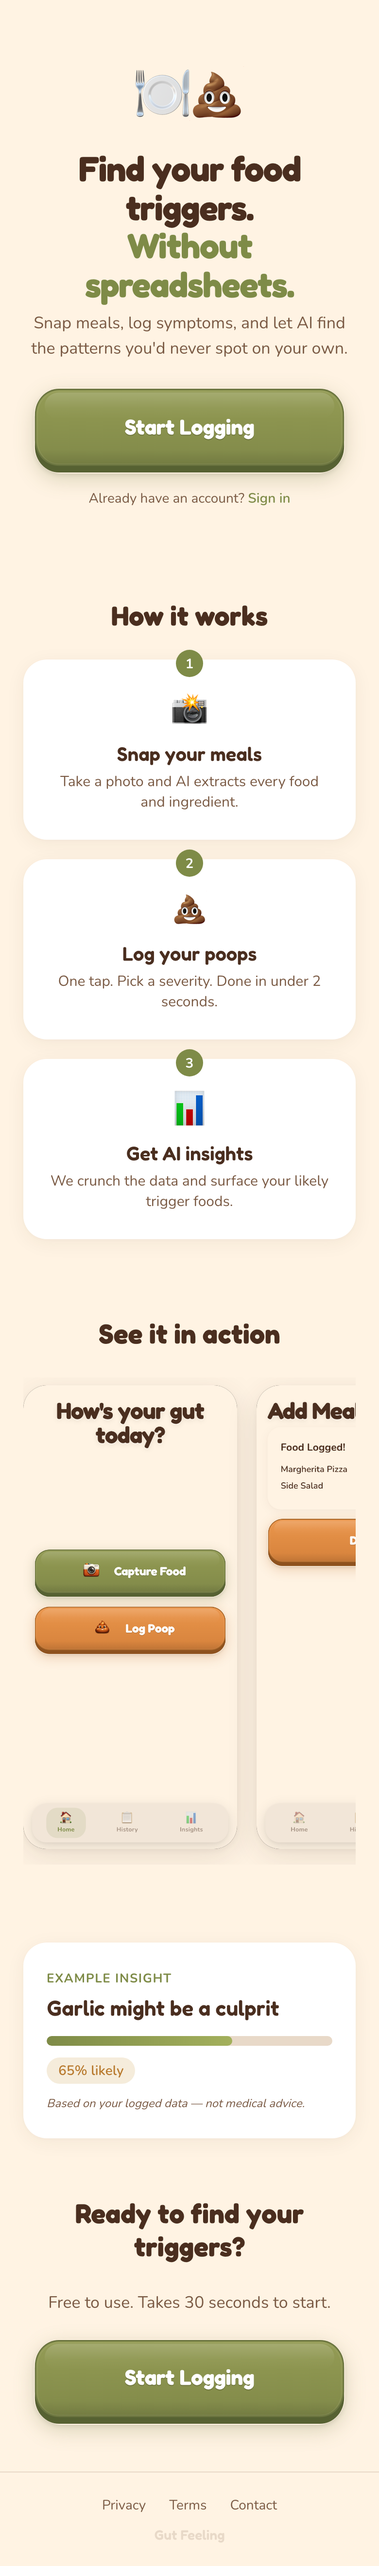
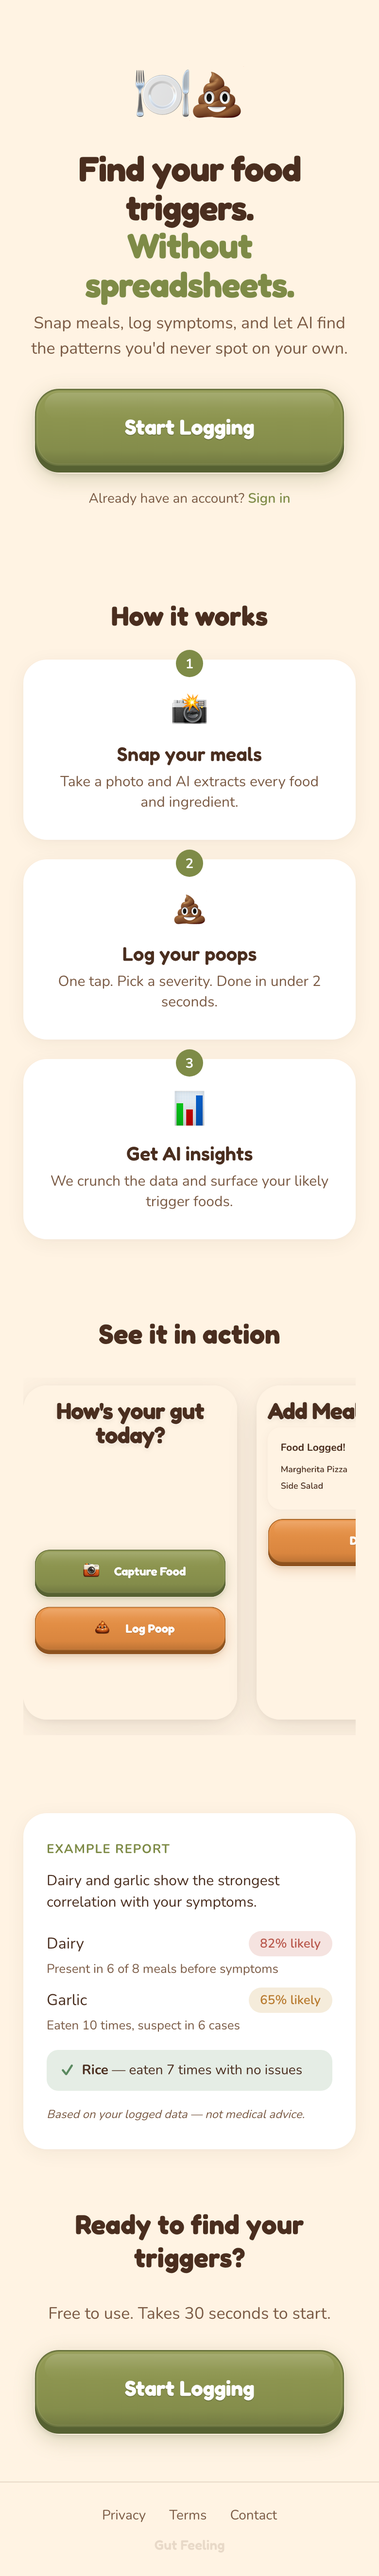
Update landing page with 5-section insight card and fix screenshot carousel

diff --git a/src/index.css b/src/index.css
@@ -494,19 +494,22 @@ body {
 .landing-screenshot-frame {
   flex-shrink: 0;
   width: 220px;
+  aspect-ratio: 9 / 14;
   scroll-snap-align: center;
   border-radius: 24px;
   overflow: hidden;
   box-shadow:
     0 8px 32px rgba(74, 46, 31, 0.12),
     0 2px 8px rgba(0, 0, 0, 0.05);
-  background: #1a1a1a;
+  background: #FFF3E3;
 }
 
 .landing-screenshot-frame img {
   width: 100%;
-  height: auto;
+  height: 100%;
   display: block;
+  object-fit: cover;
+  object-position: top;
 }
 
 /* ── Example insight card ── */
@@ -527,51 +530,75 @@ body {
   text-transform: uppercase;
   letter-spacing: 0.06em;
   color: #7E8B47;
-  margin: 0 0 8px;
+  margin: 0 0 12px;
 }
 
-.landing-insight-title {
-  font-family: 'Fredoka', 'Nunito', sans-serif;
-  font-size: 22px;
-  font-weight: 600;
+.landing-insight-summary {
+  font-size: 15px;
   color: #4A2E1F;
-  margin: 0 0 16px;
+  line-height: 1.5;
+  margin: 0 0 18px;
 }
 
-.landing-insight-bar {
-  height: 10px;
-  border-radius: 5px;
-  background: #E8D9C8;
-  overflow: hidden;
-  margin-bottom: 12px;
-}
-
-.landing-insight-fill {
-  height: 100%;
-  border-radius: 5px;
-  background: linear-gradient(90deg, #7E8B47 0%, #A3B05C 100%);
-}
-
-.landing-insight-meta {
+.landing-insight-row {
   display: flex;
   align-items: center;
-  gap: 12px;
-  flex-wrap: wrap;
+  justify-content: space-between;
+  margin-top: 10px;
+}
+
+.landing-insight-label {
+  font-weight: 500;
+  color: #4A2E1F;
+}
+
+.landing-insight-reason {
+  font-size: 13px;
+  color: #7A5A44;
+  margin: 4px 0 0;
 }
 
 .landing-insight-badge {
-  background: #F5ECDB;
-  color: #B87A2E;
   padding: 4px 12px;
   border-radius: 20px;
-  font-size: 14px;
+  font-size: 13px;
   font-weight: 600;
+  white-space: nowrap;
+}
+
+.landing-insight-badge--red {
+  background: #F5E3E0;
+  color: #B8564A;
+}
+
+.landing-insight-badge--yellow {
+  background: #F5ECDB;
+  color: #B87A2E;
+}
+
+.landing-insight-safe {
+  display: flex;
+  align-items: center;
+  gap: 8px;
+  margin-top: 16px;
+  padding: 10px 14px;
+  background: #E5EDE5;
+  border-radius: 12px;
+  font-size: 14px;
+  color: #4A2E1F;
+}
+
+.landing-insight-safe-icon {
+  color: #5A8A60;
+  font-weight: 700;
+  font-size: 16px;
 }
 
 .landing-insight-disclaimer {
   font-size: 12px;
   color: #7A5A44;
   font-style: italic;
+  margin: 16px 0 0;
 }
 
 /* ── Bottom CTA ── */

diff --git a/src/pages/Landing.js b/src/pages/Landing.js
@@ -66,15 +66,29 @@ function Landing() {
       {/* ── Example Insight ── */}
       <section className="landing-section">
         <div className="landing-insight-card">
-          <p className="landing-insight-eyebrow">Example insight</p>
-          <h3 className="landing-insight-title">Garlic might be a culprit</h3>
-          <div className="landing-insight-bar">
-            <div className="landing-insight-fill" style={{ width: '65%' }} />
+          <p className="landing-insight-eyebrow">Example report</p>
+          <p className="landing-insight-summary">
+            Dairy and garlic show the strongest correlation with your symptoms.
+          </p>
+
+          <div className="landing-insight-row">
+            <span className="landing-insight-label">Dairy</span>
+            <span className="landing-insight-badge landing-insight-badge--red">82% likely</span>
           </div>
-          <div className="landing-insight-meta">
-            <span className="landing-insight-badge">65% likely</span>
-            <span className="landing-insight-disclaimer">Based on your logged data — not medical advice.</span>
+          <p className="landing-insight-reason">Present in 6 of 8 meals before symptoms</p>
+
+          <div className="landing-insight-row">
+            <span className="landing-insight-label">Garlic</span>
+            <span className="landing-insight-badge landing-insight-badge--yellow">65% likely</span>
           </div>
+          <p className="landing-insight-reason">Eaten 10 times, suspect in 6 cases</p>
+
+          <div className="landing-insight-safe">
+            <span className="landing-insight-safe-icon">&#10003;</span>
+            <span><strong>Rice</strong> — eaten 7 times with no issues</span>
+          </div>
+
+          <p className="landing-insight-disclaimer">Based on your logged data — not medical advice.</p>
         </div>
       </section>
 
